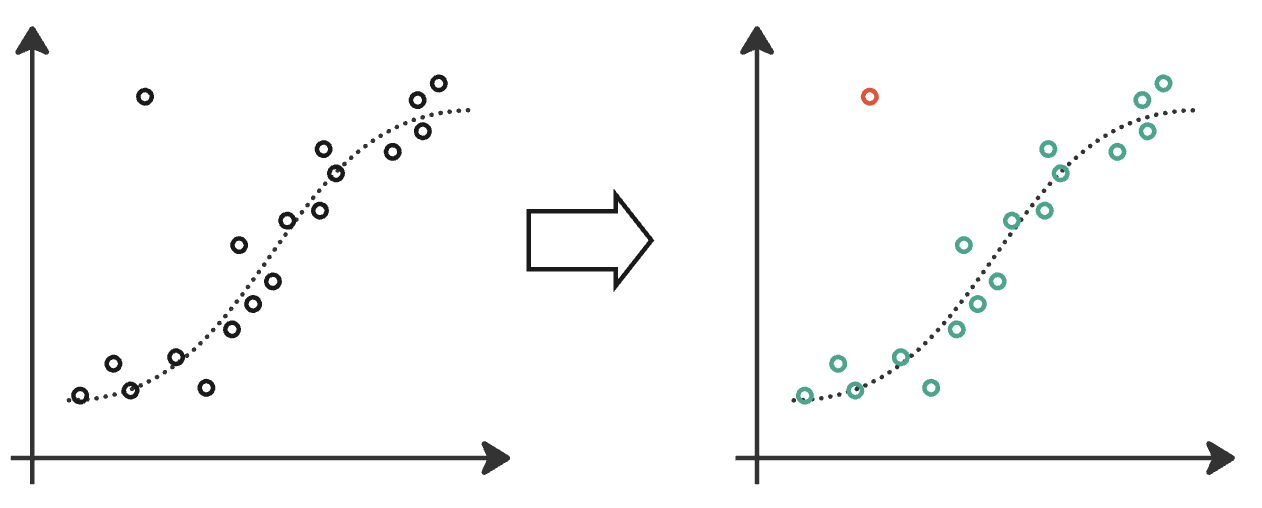
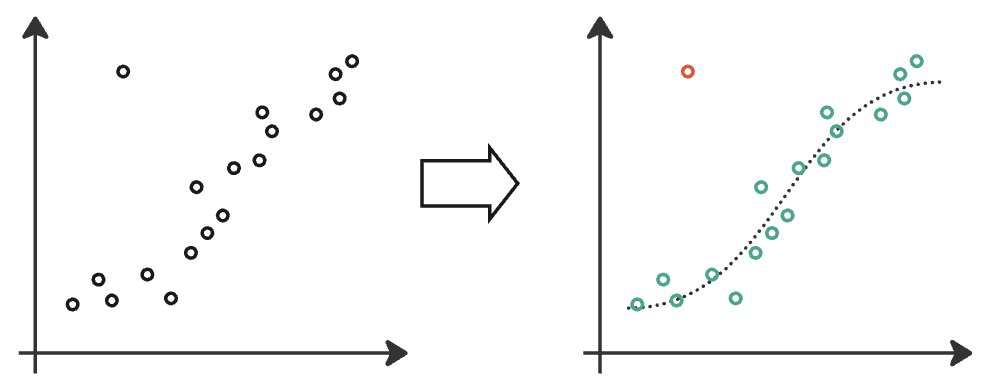
Added diagrams

diff --git a/docs/supervised-learning.md b/docs/supervised-learning.md
@@ -30,13 +30,24 @@ By training the model directly on a dataset of emails that have been labelled as
 
 Supervised learning can either be **classification** or **regression**.
 
-**Classification** is where the output is one of a fixed number of categories. This could be a binary classification task where there are exactly two possible outputs, like the example above of spam email detection. A different task might have multiple categories that an input could belong to. For example, recognising the face of a person in a photo. There are many possible people who could be pictured in the photo, and each person is a possible category. 
+**Classification** is where the output is one of a fixed number of categories. This could be a binary classification task where there are exactly two possible outputs, like the example above of spam email detection.  You can think of this as finding a line to separate the two classes, as here:
+
+![Binary Classification](imgs/sup3.png){ align=center }
+
+Though, more complex classifiers draw lines that are more complex than just a straight line. 
+
+A different task might have multiple categories that an input could belong to. For example, recognising the face of a person in a photo. There are many possible people who could be pictured in the photo, and each person is a possible category.
+
+
+![Multi-class Classification](imgs/sup4.png){ align=center }
 
 In other scenarios, an input might have more than one label. For example, a photo might have two or more different people in it, and we'd like to identify each. This is called _multi-label_ classification.
 
 Sometimes the number of classes can be very large, as in the case of many language processing tasks. Automatically translating text from one language to another is a supervised task, where the model predictions are words in the target language. 
 
 **Regression** is similar to classification, except that the output is a continuous number rather than a discrete class. Examples might be predicting the toxicity of a molecule on a scale. 
+
+![Regression](imgs/sup5.png){ align=center }
 
 ## Examples of Supervised Learning
 

diff --git a/docs/data.md b/docs/data.md
@@ -25,10 +25,13 @@ To use your data, you'll need to split it into several parts. One part will be f
 
 If you have a dataset, then a common rule of thumb is to use 80% of data for training, 10% for development, and 10% for testing. However, you do need that 10% for testing to be enough data that you can see statistically significant results.
 
+Usually you'd randomly sample the test and training set. There may be cases though where you want to do something different. One example is stratified sampling, where you split your data into segments and sample from each segment to be sure you have representation in your test set. Another example is where you may want to be sure that there is no overlap between speakers in test/training data when you have multiple examples (e.g. speech). 
+
 If you don't have enough data for this split, you can use an N-fold cross validation setup.
 
 If you have more data, and from different sources, you might need to carefully think about how to split your data. It's important, for example, that your test set reflects the task you're trying to do. If you use synthetic data in your training, you might keep that out of your test set. 
 
+Important to keep a split between training and the other sets. Data pre-processing and any parameters are learned on the training set, and then applied to test/validation splits. E.g. if you normalise data then find the parameters on the training set and transfer to test set. This avoids a leakage between test/train. 
 
 
 ## How much data do you need?
@@ -41,6 +44,8 @@ This is a commonly asked question, but there's no hard and fast answer.
 **Diversity** you also need diversity in your data as well as quantity. More data that has the same information in won't really improve your model
 
 **Starting point** starting from scratch usually requires more data than if you're finetuning an already existing model.
+
+How much data relates to dimension of data too.. need more data for higher dimensional...
 
 
 ## Data issues

diff --git a/docs/practical.md b/docs/practical.md
@@ -1,0 +1,33 @@
+# Some Practical Advice
+
+
+## Learning Objectives
+This section will help you understand:
+
+- Popular tools for getting started
+- Managing experimentation
+
+## Programming
+
+Most done in Python - can use notebooks etc. lots of libraries available, industry standard. Pytorch, hugging face & others .
+
+R is an alternative
+
+Github for managing code & version control
+
+Sharing models and code...
+
+
+Accelerate run courses on packaging software & other stuff...
+
+
+## Contact
+
+If you can't find what you need
+
+[CONTACT US :fontawesome-solid-paper-plane:](mailto:accelerate-mle@cst.cam.ac.uk){ .md-button }
+
+
+
+
+

diff --git a/docs/index.md b/docs/index.md
@@ -117,6 +117,16 @@ This online course covers the core concepts of AI for researchers who are at the
 
 <div class="grid cards" markdown>
 
+-   :fontawesome-solid-clipboard-check:{ .lg .middle } [__Some Practical Advice__](practical.md)
+
+    ---
+    Some practical advice
+
+</div>
+
+
+<div class="grid cards" markdown>
+
 -   :fontawesome-solid-arrow-trend-up:{ .lg .middle } [__Next Steps__](next-steps.md)
 
     ---
